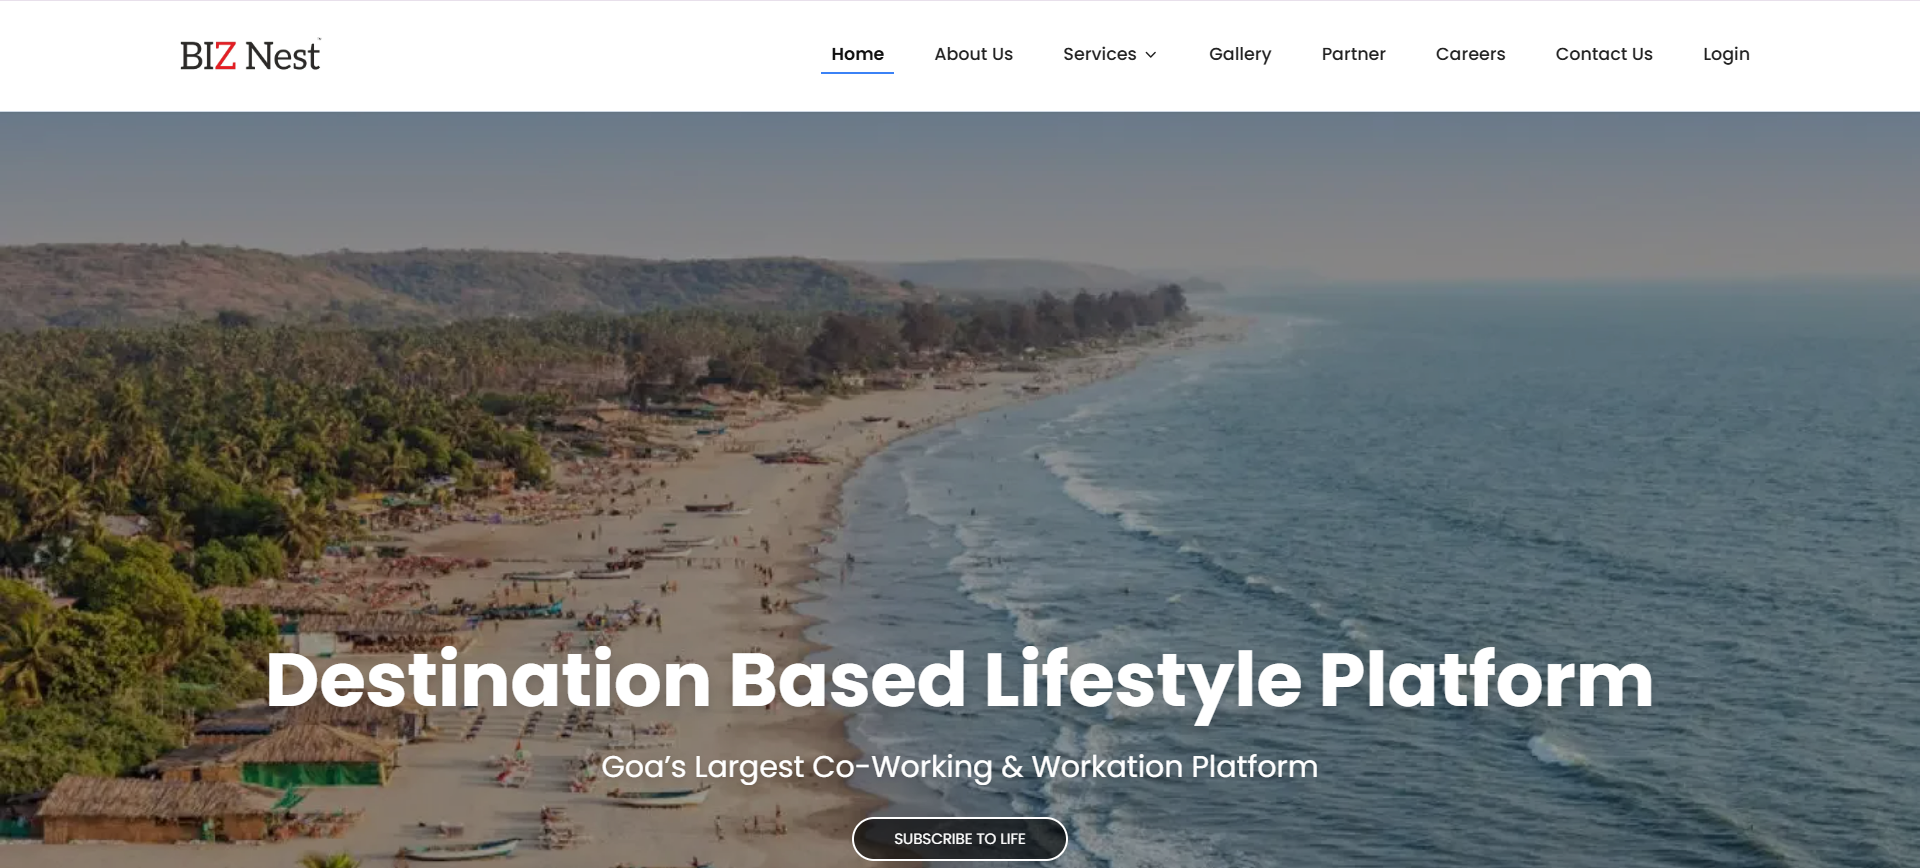
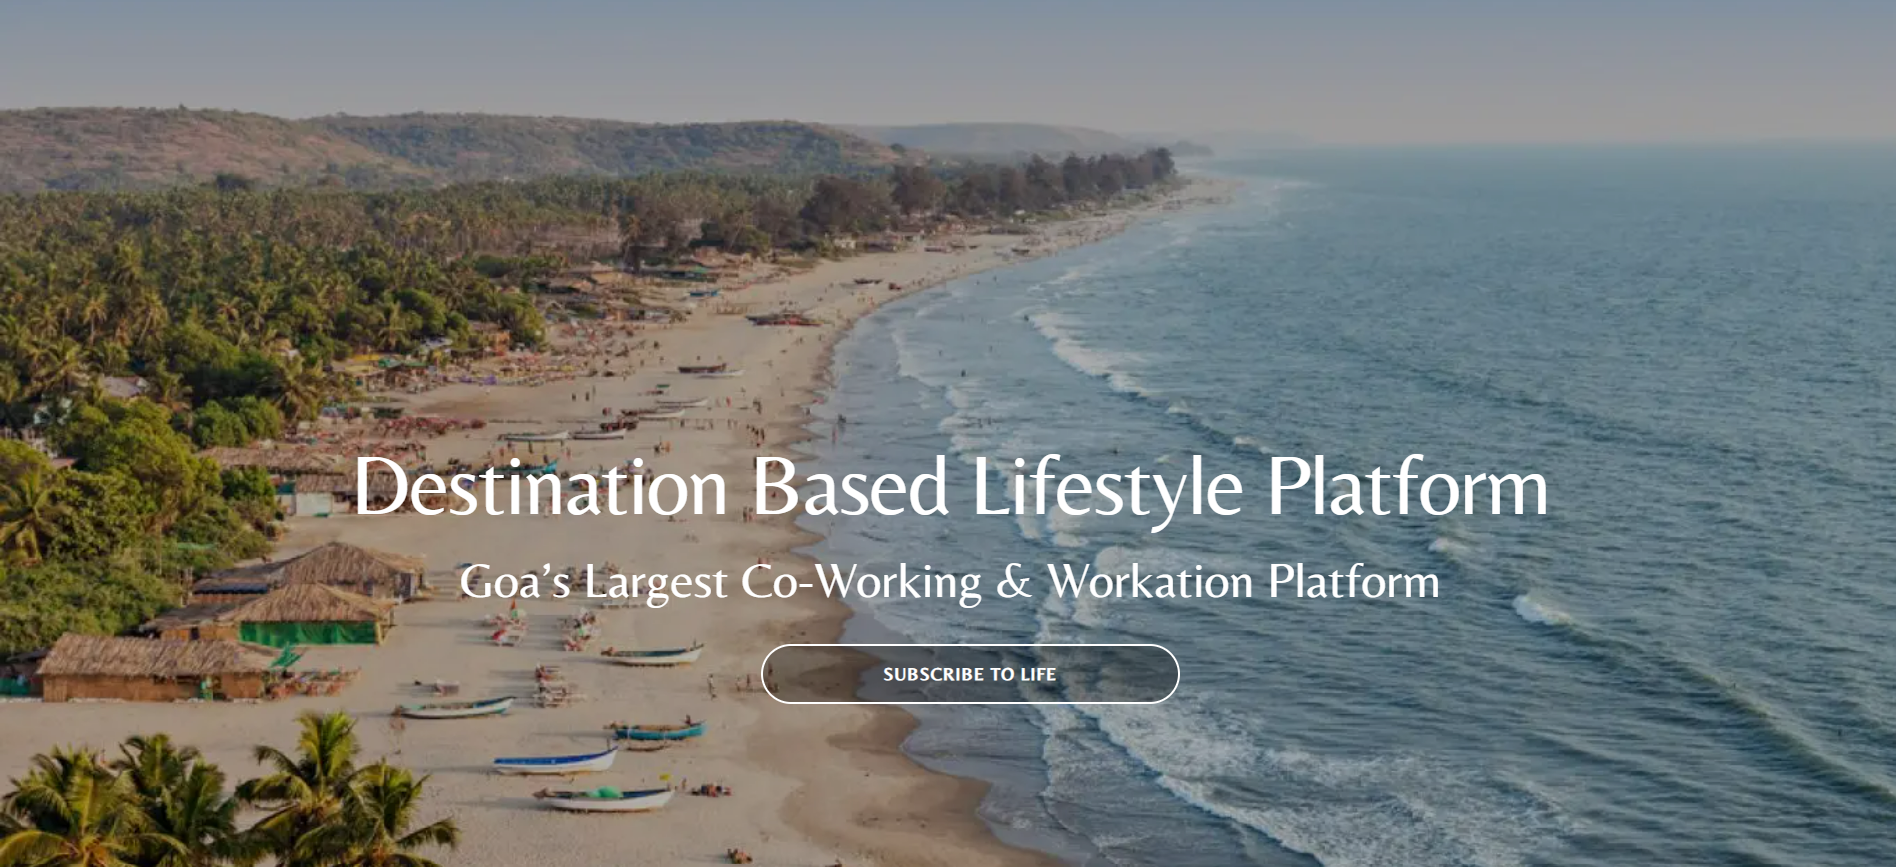
Add new images for Studom and update image paths in Companies component

diff --git a/src/pages/Companies.tsx b/src/pages/Companies.tsx
@@ -5,7 +5,7 @@ const companies = [
   { slug: 'studom', name: 'BIZNest', color: '#784840', image: '/assets/BIZNest.png', desc: 'Studom helps students discover and choose the right universities and schools. The platform brings together institution information, tuition fees, rankings, admissions, and direct applications in one place.' },
   { slug: 'studom', name: 'WoNo', color: '#784840', image: '/assets/WoNo.png', desc: 'Studom helps students discover and choose the right universities and schools. The platform brings together institution information, tuition fees, rankings, admissions, and direct applications in one place.' },
   { slug: 'unistyle', name: 'UNISTYLE', color: '#707070', image: '/assets/UniStyle.jpeg', desc: 'UniStyle creates premium university merchandise and school uniforms. Specialising in custom uniforms, apparel and merchandise, the company delivers high quality products for schools and universities.' },
-  { slug: 'studom', name: 'STUDOM', color: '#784840', image: '/assets/Studom.png', desc: 'Studom helps students discover and choose the right universities and schools. The platform brings together institution information, tuition fees, rankings, admissions, and direct applications in one place.' },
+  { slug: 'studom', name: 'STUDOM', color: '#784840', image: '/assets/Studom.jpg', desc: 'Studom helps students discover and choose the right universities and schools. The platform brings together institution information, tuition fees, rankings, admissions, and direct applications in one place.' },
   // { slug: 'daily-daily', name: 'DAILY DAILY', color: '#505050', image: '/assets/Daily%20Daily.jpeg', desc: 'Daily Daily delivers daily essentials through simple subscriptions. The platform provides scheduled doorstep delivery of groceries, household essentials, and everyday products through flexible subscription plans.' },
   { slug: 'allperspectives', name: 'ALLPERSPECTIVES', color: '#707070', image: '/assets/Studom.jpeg', desc: 'Allperspectives explores the different perspectives people experience in everyday relationships.' },
   { slug: 'studom', name: 'BUBU', color: '#784840', image: '/assets/Studom.jpeg', desc: 'Studom helps students discover and choose the right universities and schools. The platform brings together institution information, tuition fees, rankings, admissions, and direct applications in one place.' },
@@ -49,7 +49,7 @@ export default function Companies() {
                   <img
                     src={company.image}
                     alt={company.name}
-                    className="absolute inset-0 w-full h-full object-fit"
+                    className="absolute inset-0 w-full h-full object-cover"
                   />
                 )}
                 <h3 className="relative z-10 text-3xl md:text-5xl font-bold text-[#1A1A1A] uppercase tracking-wide">
